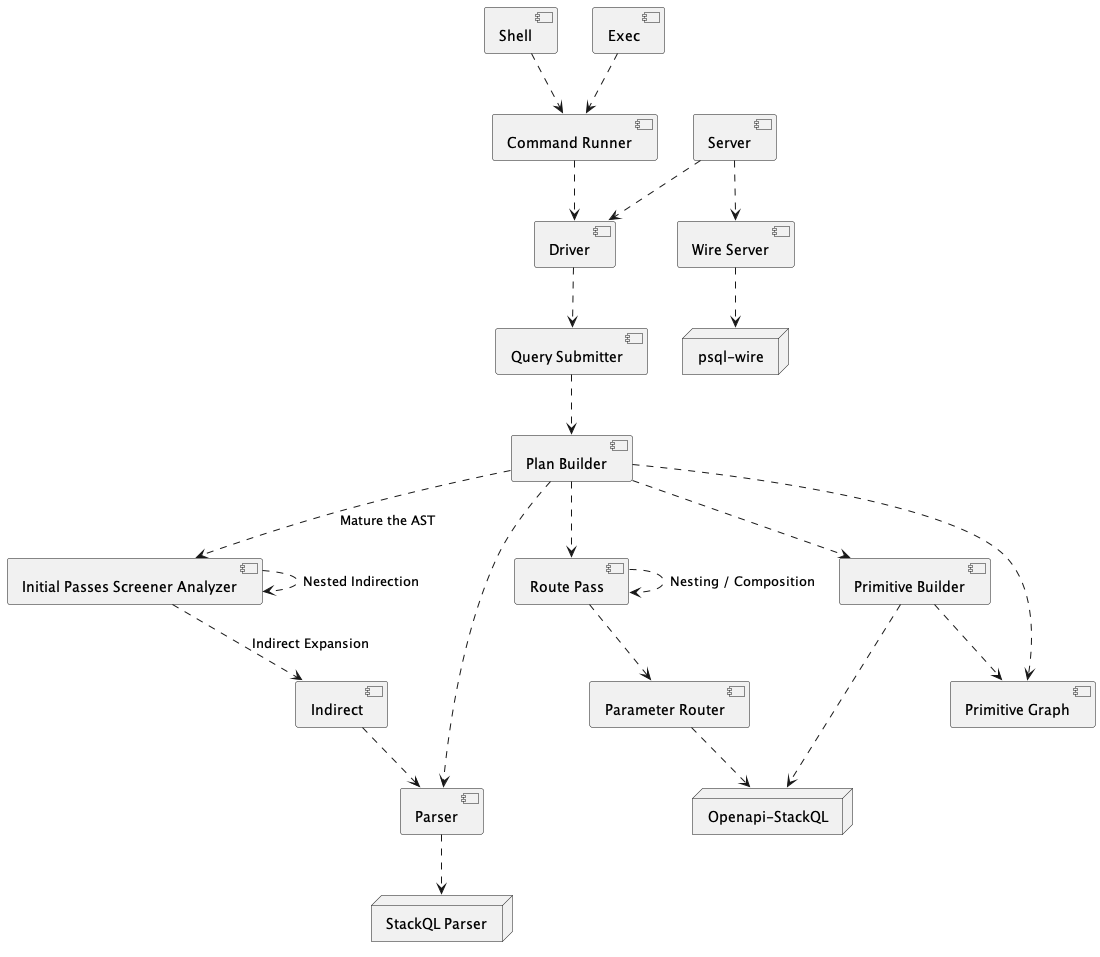
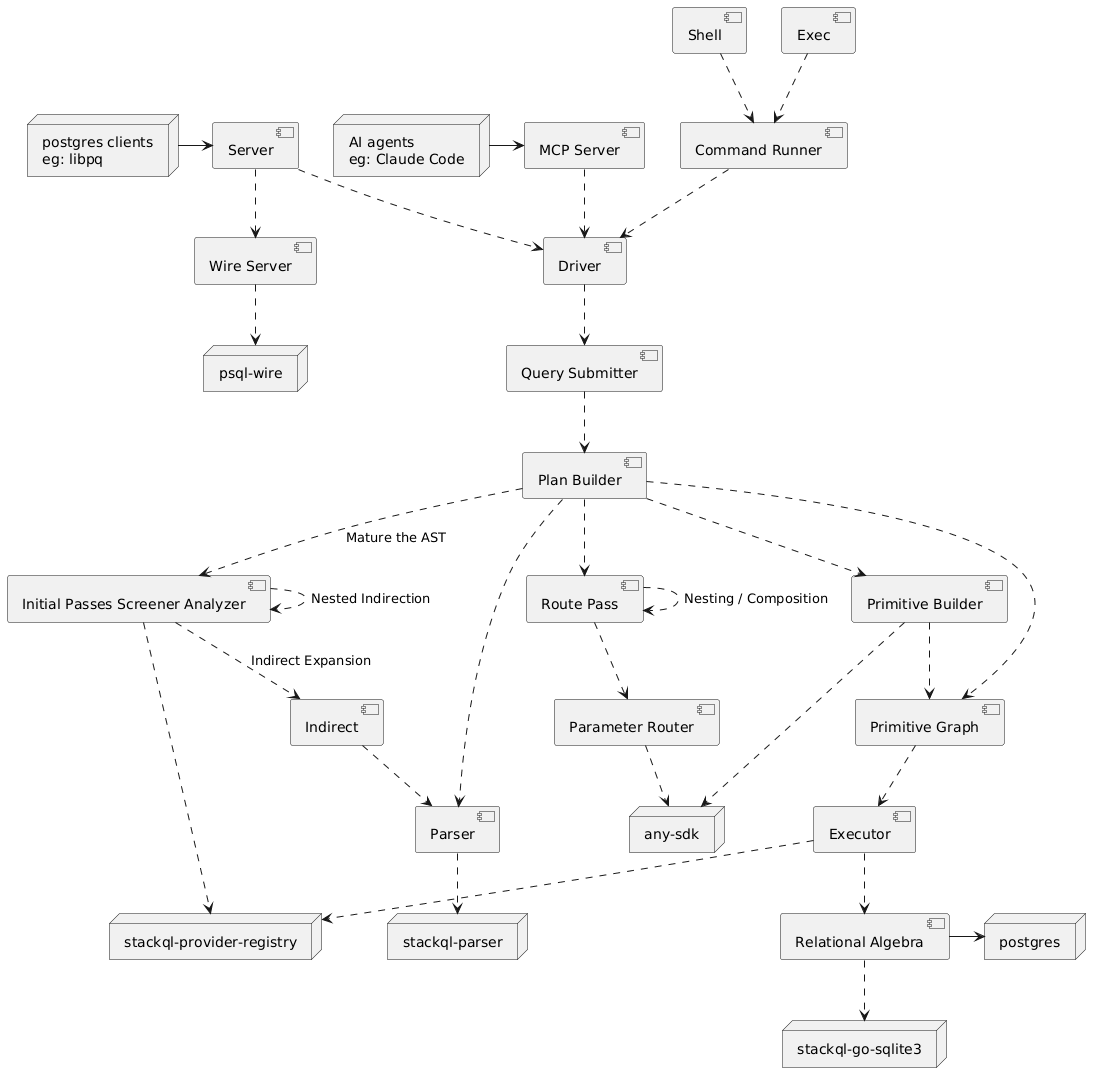
minimise-mcp (#596)
Summary:

- Add CI check for `go.sum` consistency.
- Updated high level design diagram.
- MCP server amendments:
    - Remove namespaced tools.
    - Tool descriptions tagged with future proofing and deprecations.
    - Removed robot tests for excised tools.

diff --git a/pkg/mcp_server/server.go b/pkg/mcp_server/server.go
@@ -166,7 +166,7 @@ func newMCPServer(config *Config, backend Backend, logger *logrus.Logger) (MCPSe
 		server,
 		&mcp.Tool{
 			Name:        "query_v2",
-			Description: "Execute a SQL query.  Please adhere to the expected parameters.  Returns a textual response",
+			Description: "Deprecated: Please switch to query_v3. Execute a SQL query.  Please adhere to the expected parameters.  Returns a textual response",
 			// Input and output schemas can be defined here if needed.
 		},
 		func(ctx context.Context, req *mcp.CallToolRequest, arg dto.QueryInput) (*mcp.CallToolResult, any, error) {
@@ -279,7 +279,7 @@ func newMCPServer(config *Config, backend Backend, logger *logrus.Logger) (MCPSe
 		server,
 		&mcp.Tool{
 			Name:        "prompt_write_safe_select_tool",
-			Description: "Prompt: guidelines for writing safe SELECT queries.",
+			Description: "PLACEHOLDER Future proofing: prompt guidelines for writing safe SELECT queries.",
 		},
 		func(ctx context.Context, req *mcp.CallToolRequest, args dto.HierarchyInput) (*mcp.CallToolResult, any, error) {
 			result, err := backend.PromptWriteSafeSelectTool(ctx, args)
@@ -291,25 +291,6 @@ func newMCPServer(config *Config, backend Backend, logger *logrus.Logger) (MCPSe
 			return &mcp.CallToolResult{Content: []mcp.Content{&mcp.TextContent{Text: string(bytesOut)}}}, out, nil
 		},
 	)
-
-	// mcp.AddTool(
-	// 	server,
-	// 	&mcp.Tool{
-	// 		Name:        "prompt_explain_plan_tips_tool",
-	// 		Description: "Prompt: tips for reading EXPLAIN ANALYZE output.",
-	// 	},
-	// 	func(ctx context.Context, req *mcp.CallToolRequest, _ any) (*mcp.CallToolResult, any, error) {
-	// 		result, err := backend.PromptExplainPlanTipsTool(ctx)
-	// 		if err != nil {
-	// 			return nil, nil, err
-	// 		}
-	// 		return &mcp.CallToolResult{
-	// 			Content: []mcp.Content{
-	// 				&mcp.TextContent{Text: result},
-	// 			},
-	// 		}, result, nil
-	// 	},
-	// )
 
 	mcp.AddTool(
 		server,
@@ -338,7 +319,7 @@ func newMCPServer(config *Config, backend Backend, logger *logrus.Logger) (MCPSe
 		server,
 		&mcp.Tool{
 			Name:        "list_tables_json_page",
-			Description: "List tables with pagination and filters, returns JSON.",
+			Description: "Future proofing: List tables with pagination and filters, returns JSON.",
 		},
 		func(ctx context.Context, req *mcp.CallToolRequest, args dto.ListTablesPageInput) (*mcp.CallToolResult, any, error) {
 			result, err := backend.ListTablesJSONPage(ctx, args)
@@ -429,7 +410,7 @@ func newMCPServer(config *Config, backend Backend, logger *logrus.Logger) (MCPSe
 		server,
 		&mcp.Tool{
 			Name:        "describe_table",
-			Description: "Get detailed information about a table.",
+			Description: "PLACEHOLDER Future proofing: Get detailed information about a table.",
 		},
 		func(ctx context.Context, req *mcp.CallToolRequest, args dto.HierarchyInput) (*mcp.CallToolResult, any, error) {
 			result, err := backend.DescribeTable(ctx, args)
@@ -446,7 +427,7 @@ func newMCPServer(config *Config, backend Backend, logger *logrus.Logger) (MCPSe
 		server,
 		&mcp.Tool{
 			Name:        "get_foreign_keys",
-			Description: "Get foreign key information for a table.",
+			Description: "PLACEHOLDER Future proofing: Get foreign key information for a table.",
 		},
 		func(ctx context.Context, req *mcp.CallToolRequest, args dto.HierarchyInput) (*mcp.CallToolResult, any, error) {
 			result, err := backend.GetForeignKeys(ctx, args)
@@ -463,7 +444,7 @@ func newMCPServer(config *Config, backend Backend, logger *logrus.Logger) (MCPSe
 		server,
 		&mcp.Tool{
 			Name:        "find_relationships",
-			Description: "Find explicit and implied relationships for a table.",
+			Description: "PLACEHOLDER Future proofing: Find explicit and implied relationships for a table.",
 		},
 		func(ctx context.Context, req *mcp.CallToolRequest, args dto.HierarchyInput) (*mcp.CallToolResult, any, error) {
 			result, err := backend.FindRelationships(ctx, args)
@@ -475,10 +456,6 @@ func newMCPServer(config *Config, backend Backend, logger *logrus.Logger) (MCPSe
 			return &mcp.CallToolResult{Content: []mcp.Content{&mcp.TextContent{Text: string(bytesOut)}}}, out, nil
 		},
 	)
-
-	// --- new: register namespaced meta.* and query.* tools ---
-	registerNamespacedTools(server, backend, logger)
-	// ---------------------------------------------------------
 
 	return &simpleMCPServer{
 		config:           config,
@@ -552,138 +529,4 @@ func (s *simpleMCPServer) Stop() error {
 
 	s.logger.Printf("MCP server stopped")
 	return nil
-}
-
-// registerNamespacedTools adds meta.* and query.* tools (namespaced variants).
-//
-//nolint:gocognit,funlen // ok for now
-func registerNamespacedTools(server *mcp.Server, backend Backend, logger *logrus.Logger) {
-	// meta.server_info
-	mcp.AddTool(
-		server,
-		&mcp.Tool{
-			Name:        "meta.server_info",
-			Description: "Namespaced: Get server information.",
-		},
-		func(ctx context.Context, req *mcp.CallToolRequest, _ any) (*mcp.CallToolResult, dto.ServerInfoDTO, error) {
-			info, err := backend.ServerInfo(ctx, nil)
-			if err != nil {
-				return nil, dto.ServerInfoDTO{}, err
-			}
-			out := dto.ServerInfoDTO{Name: info.Name, Info: info.Info, IsReadOnly: info.IsReadOnly}
-			bytesOut, _ := json.Marshal(out)
-			return &mcp.CallToolResult{Content: []mcp.Content{&mcp.TextContent{Text: string(bytesOut)}}}, out, nil
-		},
-	)
-
-	// meta.db_identity
-	mcp.AddTool(
-		server,
-		&mcp.Tool{
-			Name:        "meta.db_identity",
-			Description: "Namespaced: Get current database identity.",
-		},
-		func(ctx context.Context, req *mcp.CallToolRequest, _ any) (*mcp.CallToolResult, dto.DBIdentityDTO, error) {
-			id, err := backend.DBIdentity(ctx, nil)
-			if err != nil {
-				return nil, dto.DBIdentityDTO{}, err
-			}
-			out := dto.DBIdentityDTO{Identity: fmt.Sprintf("%v", id["identity"])}
-			bytesOut, _ := json.Marshal(out)
-			return &mcp.CallToolResult{Content: []mcp.Content{&mcp.TextContent{Text: string(bytesOut)}}}, out, nil
-		},
-	)
-
-	mcp.AddTool(
-		server,
-		&mcp.Tool{
-			Name:        "query.exec_text",
-			Description: "Namespaced: Execute SQL returning textual result.",
-		},
-		func(ctx context.Context, req *mcp.CallToolRequest, arg dto.QueryInput) (*mcp.CallToolResult, any, error) {
-			logger.Infof("query.exec_text SQL: %s", arg.SQL)
-			rawText, err := backend.RunQuery(ctx, arg)
-			if err != nil {
-				return nil, nil, err
-			}
-			out := dto.QueryResultDTO{Raw: rawText, Format: "text"}
-			bytesOut, _ := json.Marshal(out)
-			return &mcp.CallToolResult{Content: []mcp.Content{&mcp.TextContent{Text: string(bytesOut)}}}, out, nil
-		},
-	)
-
-	mcp.AddTool(
-		server,
-		&mcp.Tool{
-			Name:        "query.exec_json",
-			Description: "Namespaced: Execute SQL returning JSON array as text.",
-		},
-		func(ctx context.Context, req *mcp.CallToolRequest, arg dto.QueryJSONInput) (*mcp.CallToolResult, any, error) {
-			rows, err := backend.RunQueryJSON(ctx, arg)
-			if err != nil {
-				return nil, nil, err
-			}
-			dtObj := dto.QueryResultDTO{
-				Rows:     rows,
-				RowCount: len(rows),
-				Format:   "json",
-			}
-			bytesOut, _ := json.Marshal(dtObj)
-			return &mcp.CallToolResult{Content: []mcp.Content{&mcp.TextContent{Text: string(bytesOut)}}}, dtObj, nil
-		},
-	)
-
-	// meta_describe_table
-	mcp.AddTool(
-		server,
-		&mcp.Tool{
-			Name:        "meta_describe_table",
-			Description: "Describe a stackql relation.  This publishes the bullk of the columns returned from a SELECT.",
-		},
-		func(ctx context.Context, req *mcp.CallToolRequest, args dto.HierarchyInput) (*mcp.CallToolResult, any, error) {
-			result, err := backend.DescribeTable(ctx, args)
-			if err != nil {
-				return nil, nil, err
-			}
-			out := dto.QueryResultDTO{Rows: result, RowCount: len(result), Format: "json"}
-			bytesOut, _ := json.Marshal(out)
-			return &mcp.CallToolResult{Content: []mcp.Content{&mcp.TextContent{Text: string(bytesOut)}}}, out, nil
-		},
-	)
-
-	// meta.get_foreign_keys
-	mcp.AddTool(
-		server,
-		&mcp.Tool{
-			Name:        "meta.get_foreign_keys",
-			Description: "Namespaced: Get foreign keys for a table.",
-		},
-		func(ctx context.Context, req *mcp.CallToolRequest, args dto.HierarchyInput) (*mcp.CallToolResult, any, error) {
-			result, err := backend.GetForeignKeys(ctx, args)
-			if err != nil {
-				return nil, nil, err
-			}
-			out := dto.QueryResultDTO{Rows: result, RowCount: len(result), Format: "json"}
-			bytesOut, _ := json.Marshal(out)
-			return &mcp.CallToolResult{Content: []mcp.Content{&mcp.TextContent{Text: string(bytesOut)}}}, out, nil
-		},
-	)
-
-	// meta.find_relationships
-	mcp.AddTool(
-		server,
-		&mcp.Tool{
-			Name:        "meta.find_relationships",
-			Description: "Namespaced: Find relationships for a table.",
-		},
-		func(ctx context.Context, req *mcp.CallToolRequest, args dto.HierarchyInput) (*mcp.CallToolResult, any, error) {
-			result, err := backend.FindRelationships(ctx, args)
-			if err != nil {
-				return nil, nil, err
-			}
-			out := dto.SimpleTextDTO{Text: result}
-			bytesOut, _ := json.Marshal(out)
-			return &mcp.CallToolResult{Content: []mcp.Content{&mcp.TextContent{Text: string(bytesOut)}}}, out, nil
-		},
-	)
 }
